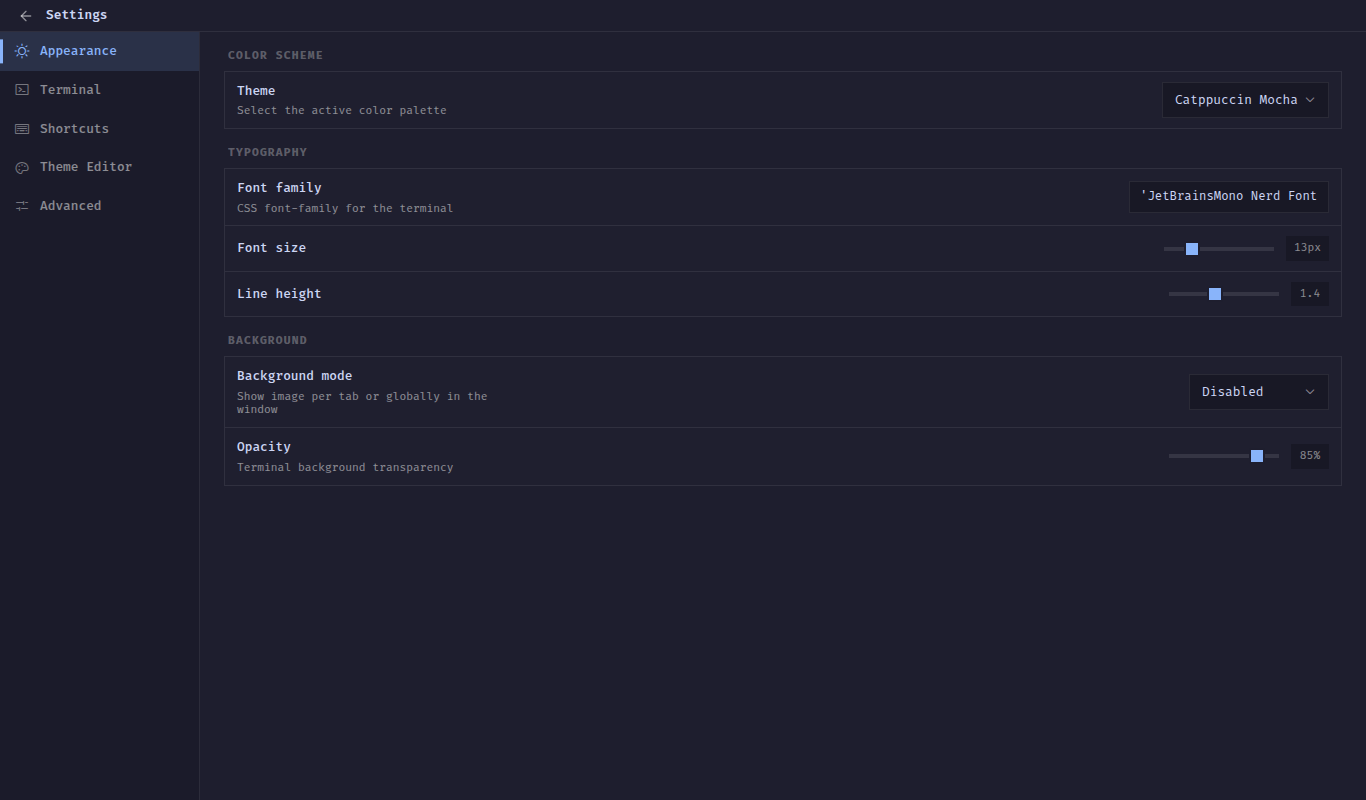
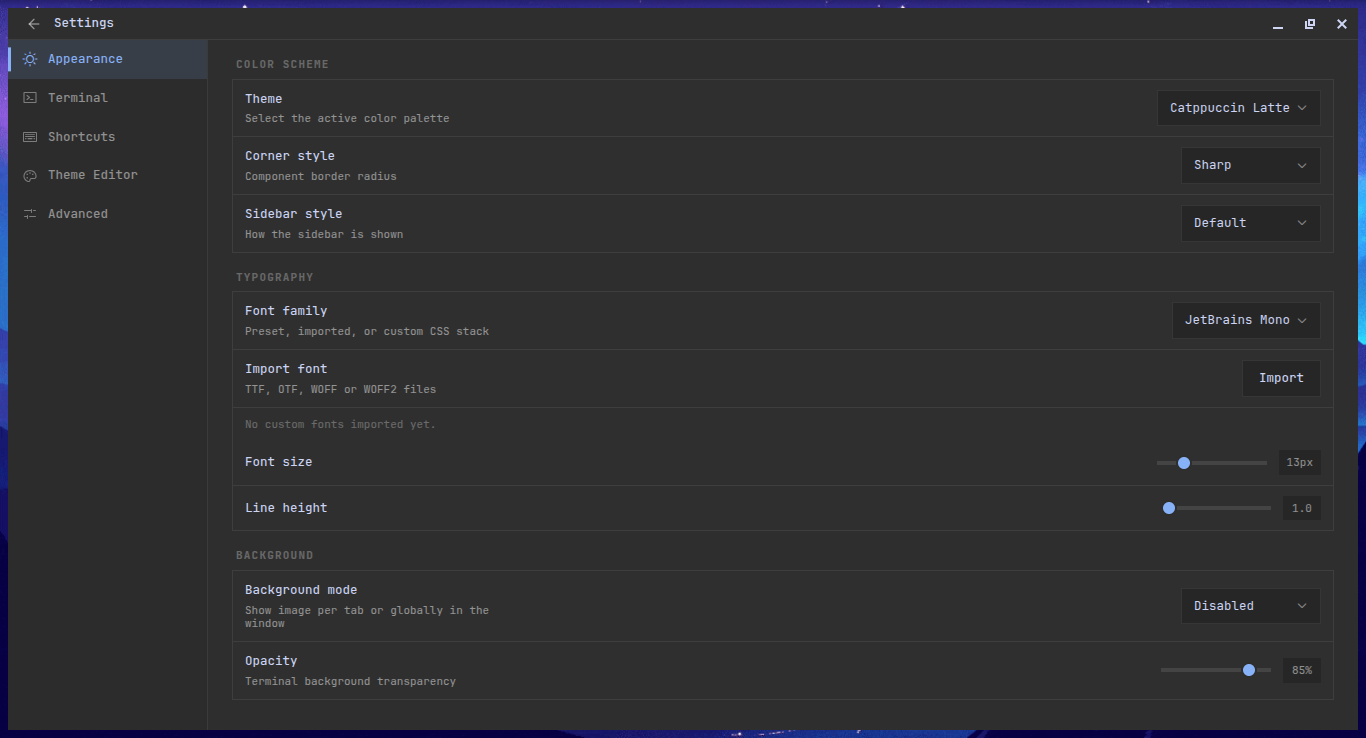
update readme

diff --git a/README.md b/README.md
@@ -7,7 +7,7 @@
 <p align="center">A terminal multiplexer and desktop workspace app with integrated browser, built on Electron.</p>
 
 <p align="center">
-  <img src="screenshots/main.png" alt="TerminalVibe - Main Interface" width="800">
+  <img src="screenshots/splits.png" alt="TerminalVibe - Split panes and workspaces" width="800">
 </p>
 
 ## Features
@@ -31,6 +31,16 @@
 - **Persistent state** - layout, themes, settings, and open browser URLs persist across sessions (auto-save every 30s)
 - **Frameless window** - custom titlebar with logo, sidebar toggle, and window controls (minimize/maximize/close)
 - **Status bar** - shows active workspace, terminal name, terminal dimensions + font size, connection status, multi-select count, and real-time clock
+
+## Screenshots
+
+<p align="center">
+  <img src="screenshots/youtube.png" alt="TerminalVibe - Built-in browser playing YouTube" width="800">
+</p>
+
+<p align="center">
+  <img src="screenshots/claude.png" alt="TerminalVibe - Running Claude Code in the terminal" width="800">
+</p>
 
 <p align="center">
   <img src="screenshots/settings.png" alt="TerminalVibe - Settings" width="800">
